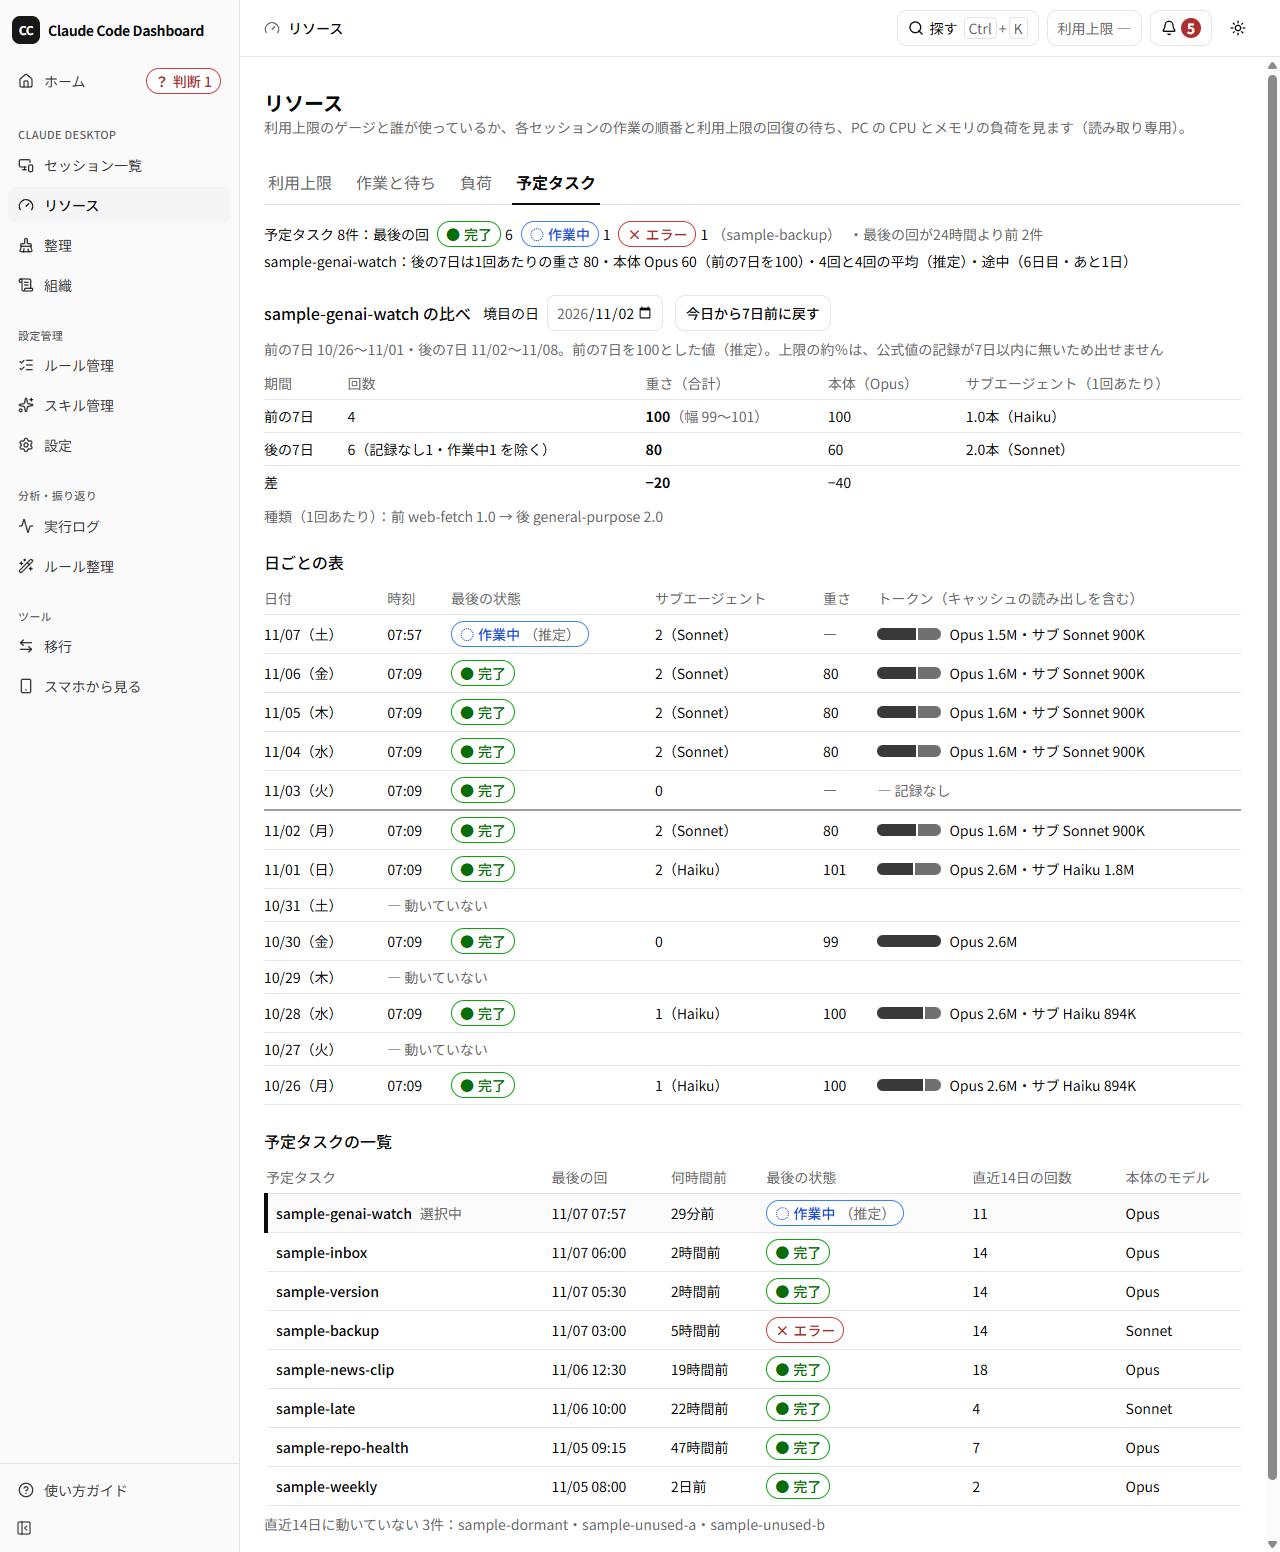
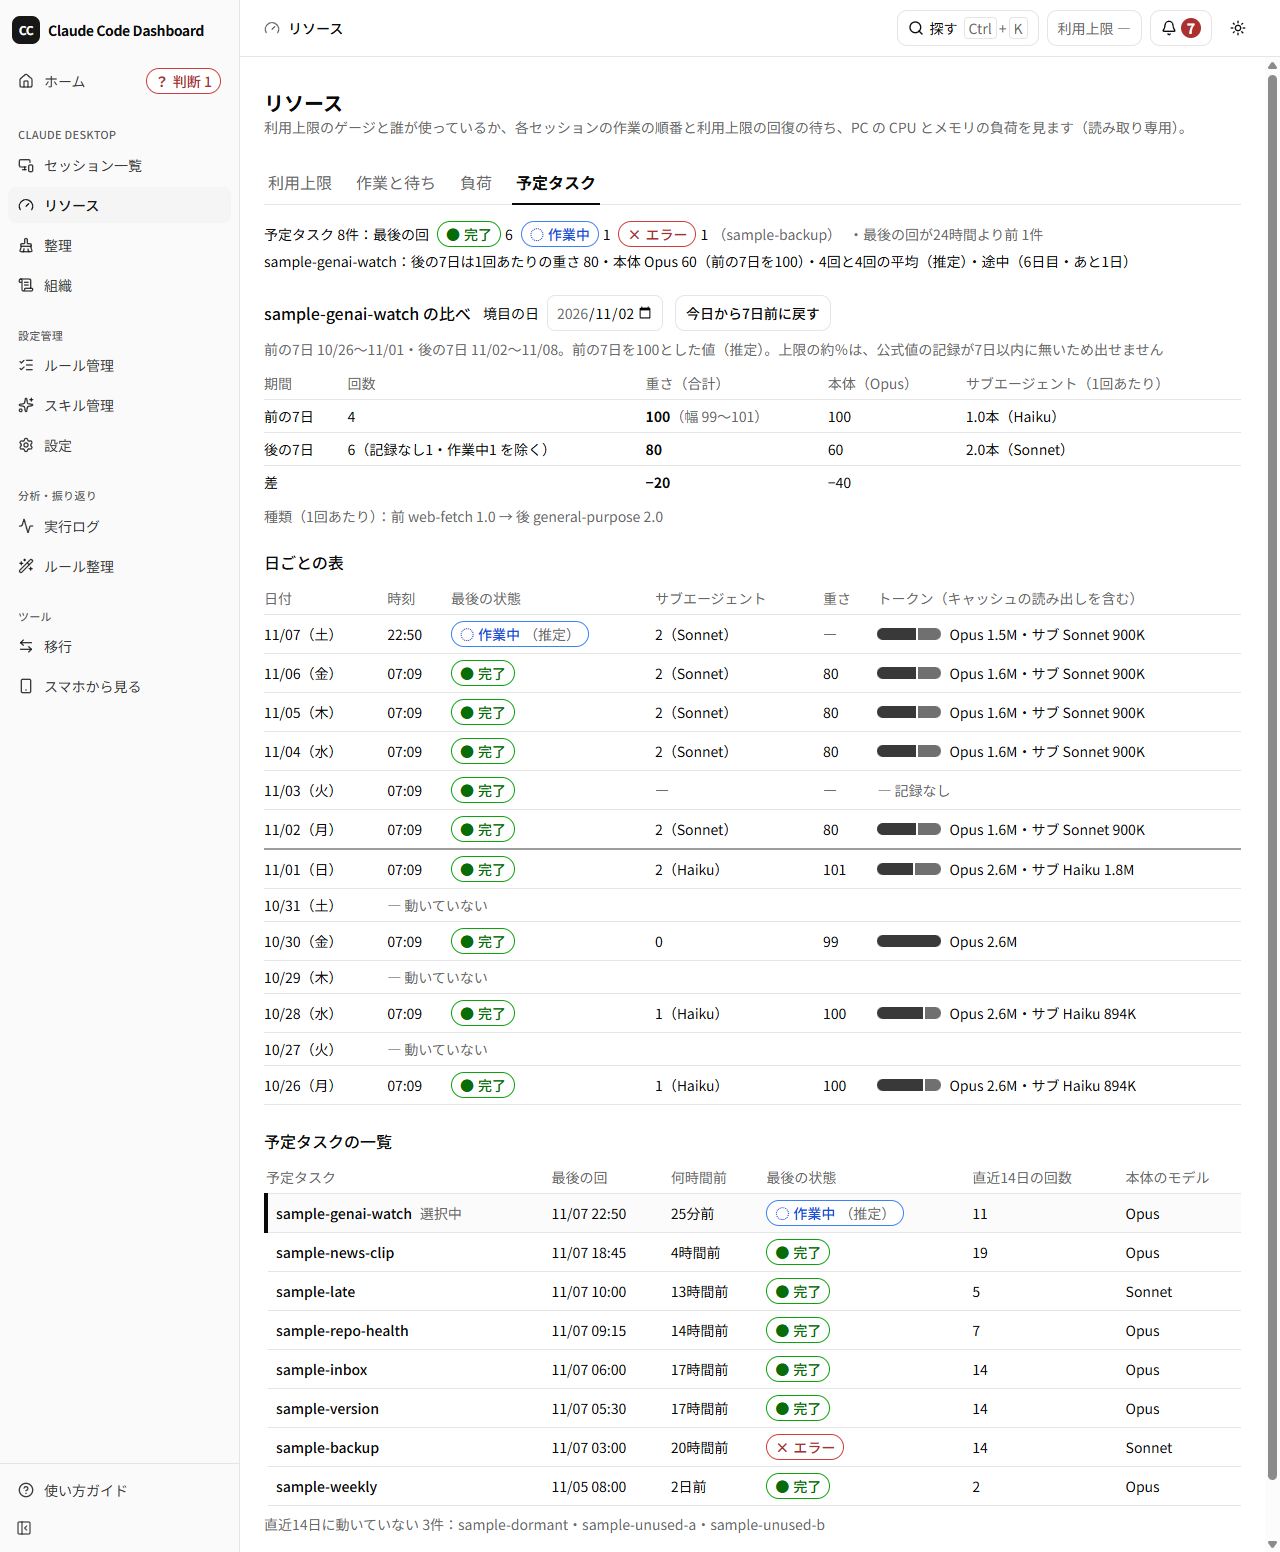
fix(指示64): ⑯ ゲート2 の直し(境目の線・LAN の内訳・既定の選択の端・記録なしの「―」・9つの状態のテスト)
- 中1：日ごとの表の境目の線を「境目の日と前の日の間」(前の7日の最初の行の上)に引く。
  境目が今日でも区切りが残る(boundaryLineDay)。使い方ガイドの文と画像 09d を直した
- 低7：LAN の要求の /api/usage から、セッションごとの models・subagents を外す(usageLan.ts)
- 低2：既定の選択で、作業中の回を過半数の数えから外す。新しい系統が最後の終わった回にだけ
  出たときは36時間まで、次の回が作業中なら48時間まで新しい系統と数える
- 低1：会話記録の無い回のサブエージェントの欄を「―」にする
- 低3：9つの状態 × アーカイブの有無で、タブの印が一覧の印と同じことのテスト

要件: AG-2(中1・低1)・AG-7(低7)・AG-3(低2)・AG-1(低3)

diff --git a/src/lib/scheduledActivity.ts b/src/lib/scheduledActivity.ts
@@ -91,10 +91,16 @@ function byTask(runs: ScheduledRun[]): Map<string, ScheduledRun[]> {
  * - 系統で比べる(版の違いは同じ系統)。本体とサブエージェントのどちらに出ても同じに数える
  * - それより前の読める回のどれにも無かった系統だけ。前の回が読めない回(初回・読める範囲の最初の回)は数えない
  * - その系統が、最初に出た回から後の回の過半数で使われていること(時々だけ使う物は拾わない)。
- *   最初に出た回が最後の回(後の回がその1回だけ)のときは、その回が24時間以内のときだけ数える(1回だけでは使い続けたか分からないため。
+ *   作業中の回(まだその系統を使っていないことがある)は数えない(最初に出た回そのものは数える)。
+ *   最初に出た回が最後の終わった回のときは、その回が36時間以内のとき(毎日の回が半日遅れても外れない)と、
+ *   次の回が作業中で48時間以内のとき(次の回が終わるまで)だけ数える(1回だけでは使い続けたか分からないため。
  *   画面は、初めて出した既定の選択を覚えるので、次の日に替わることはない)
  * 該当が無ければ、直近14日の重さの合計が大きい順の1件目(境目は今日の7日前＝null)
  */
+/** 新しい系統が最後の終わった回にだけ出たとき、新しい系統と数える長さ(低2)。次の回が作業中なら、48時間まで待つ */
+const SINGLE_RUN_FRESH_MS = 36 * 3_600_000
+const SINGLE_RUN_WAIT_NEXT_MS = 2 * DAY_MS
+
 export function chooseDefault(runs: ScheduledRun[], now: number): DefaultSelection | null {
   const since = now - RECENT_DAYS * DAY_MS
   let best: { taskId: string; at: number } | null = null
@@ -106,9 +112,12 @@ export function chooseDefault(runs: ScheduledRun[], now: number): DefaultSelecti
       if (i > 0) {
         for (const f of fams) {
           if (seen.has(f)) continue
-          const later = readable.slice(i)
+          const after = readable.slice(i + 1)
+          const later = [run, ...after.filter((r) => !r.running)]
           const used = later.filter((r) => familiesOf(r).has(f)).length
-          const fresh = later.length > 1 || now - run.startedAt <= DAY_MS
+          const age = now - run.startedAt
+          const nextRunning = after.some((r) => r.running)
+          const fresh = later.length > 1 || age <= SINGLE_RUN_FRESH_MS || (nextRunning && age <= SINGLE_RUN_WAIT_NEXT_MS)
           if (used * 2 > later.length && fresh && run.startedAt >= since && run.startedAt <= now) {
             if (!best || run.startedAt > best.at) best = { taskId, at: run.startedAt }
           }
@@ -362,6 +371,14 @@ export function dailyRows(runs: ScheduledRun[], boundary: string, now: number): 
     rows.push({ day: k, runs: [...(byDay.get(k) ?? [])].sort((a, b) => b.startedAt - a.startedAt) })
   }
   return rows
+}
+
+/**
+ * 境目の線を上に引く行の日(前の7日の最初の行 = 境目の前の日。新しい順の表なので、線は境目の日と前の日の間に入る)。
+ * 境目が今日でも、線は今日の行と昨日の行の間に残る。境目が今日より後なら表の先頭の行(後の7日の行が無いため)
+ */
+export function boundaryLineDay(rows: DayRow[], boundary: string): string | null {
+  return rows.find((r) => r.day < boundary)?.day ?? null
 }
 
 /** 予定タスクのいつもの本体のモデルの系統(回の多い順の1位)。替わった回だけ印を付けるために使う */

diff --git a/src/lib/scheduledActivity.test.ts b/src/lib/scheduledActivity.test.ts
@@ -7,6 +7,7 @@ import {
   buildTaskList,
   chooseDefault,
   compareRuns,
+  boundaryLineDay,
   dailyRows,
   dayKey,
   familyLabel,
@@ -159,6 +160,20 @@ describe("[AG-2][A2] 日ごとの表", () => {
     expect(rows.find((r) => r.day === "2026-11-09")?.runs).toEqual([])
   })
 
+  it("[中1] 境目の線は境目の日と前の日の間。境目の日は線の上(後の7日の側)。境目が今日でも区切りが残る", () => {
+    const runs = [run("w", "2026-11-07 07:09"), run("w", "2026-11-06 07:09")]
+    const rows = dailyRows(runs, "2026-11-07", jst("2026-11-10 12:00"))
+    const line = boundaryLineDay(rows, "2026-11-07")
+    expect(line).toBe("2026-11-06")
+    const at = rows.findIndex((r) => r.day === line)
+    expect(rows.slice(0, at).map((r) => r.day)).toContain("2026-11-07")
+    expect(rows.slice(at).every((r) => r.day < "2026-11-07")).toBe(true)
+    // 境目が今日：線は今日の行の下(表の先頭ではない)
+    const today = dailyRows(runs, "2026-11-10", jst("2026-11-10 12:00"))
+    expect(boundaryLineDay(today, "2026-11-10")).toBe("2026-11-09")
+    expect(today[0].day).toBe("2026-11-10")
+  })
+
   it("いつもの本体の系統(替わった回だけ印を付けるため)", () => {
     expect(usualMainFamily([run("w", "2026-11-01 07:00"), run("w", "2026-11-02 07:00"), run("w", "2026-11-03 07:00", { mainFamilies: ["Sonnet"] })])).toBe("Opus")
   })
@@ -269,6 +284,25 @@ describe("[A13] 新しい系統が最後の回に初めて出たとき", () => {
     ]
     expect(chooseDefault(runs, jst("2026-11-08 20:00"))).toMatchObject({ taskId: "sometimes", boundaryDay: "2026-11-08" })
     expect(chooseDefault(runs, jst("2026-11-10 12:00"))).toMatchObject({ reason: "weight" })
+  })
+
+  it("[低2] 次の回が作業中でまだ新しい系統を使っていない間(48時間まで)・次の回が無いまま24時間を過ぎても(36時間まで)選び続ける", () => {
+    const base = [
+      ...["11-03", "11-04", "11-05", "11-06"].map((d) => run("watch", `2026-${d} 07:09`)),
+      run("watch", "2026-11-07 07:09", { sub: ["Sonnet"] }),
+      ...["11-03", "11-05", "11-07"].map((d) => run("other", `2026-${d} 10:00`, { cost: 5 })),
+    ]
+    const want = { taskId: "watch", reason: "new-family", boundaryDay: "2026-11-07" }
+    // 11/08 の回が作業中で、本体の行だけ(Sonnet はまだ無い)
+    const running = [...base, run("watch", "2026-11-08 07:09", { running: true })]
+    expect(chooseDefault(running, jst("2026-11-08 07:20"))).toEqual(want)
+    expect(chooseDefault(running, jst("2026-11-09 07:00"))).toEqual(want)
+    // 11/08 の回が無いまま(PC が止まっていた・遅れた)
+    expect(chooseDefault(base, jst("2026-11-08 09:00"))).toEqual(want)
+    // 次の回が無いまま36時間を過ぎたら、1回だけでは使い続けたか分からないので選ばない
+    expect(chooseDefault(base, jst("2026-11-08 20:00"))).toMatchObject({ reason: "weight" })
+    // 作業中の回の後でも、48時間を過ぎたら選ばない
+    expect(chooseDefault(running, jst("2026-11-09 08:00"))).toMatchObject({ reason: "weight" })
   })
 
   it("前の7日の本体の重さが0なら、本体は比べない(―)", () => {

diff --git a/src/lib/scheduledActivityService.test.ts b/src/lib/scheduledActivityService.test.ts
@@ -7,7 +7,7 @@ import { afterEach, describe, expect, it, vi } from "vitest"
 import { FAKE_ACCOUNT, FAKE_ORG, SENTINEL, fakeCliId, fakeSessionId, fakeUuid, makeMeta, makeSessionSummary } from "./desktopFixtures"
 import { DesktopSessionService } from "./desktopSessionService"
 import { projectMeta } from "./desktopSessions"
-import type { DesktopSessionMessaging } from "./desktopSessionTypes"
+import type { DesktopSessionMessaging, DesktopSessionStatus } from "./desktopSessionTypes"
 import { readJsonlFrom } from "./jsonlReader"
 import { LAN_HEADER } from "./lanAccess/config"
 import { compareRuns, dayKey } from "./scheduledActivity"
@@ -189,6 +189,23 @@ describe("[AG-1][AG-5][AG-6] 予定タスクの集計", () => {
     expect(beta?.mark).toMatchObject({ symbol: "？", text: "判断", tone: "gray" })
     expect(beta?.stopReason).toBe("要対応")
     expect(res.runs.find((r) => r.desktopId === fakeSessionId(1))?.stopReason).toBeNull()
+  })
+
+  it("[A1][低3] 9つの状態 × アーカイブの有無で、タブの印が一覧の印(buildMarks)と同じ", async () => {
+    const fx = await fixture()
+    const statuses: DesktopSessionStatus[] = ["running", "interrupted", "blocked", "review_ready", "completed", "standby", "waiting", "unknown", "error"]
+    const sessions = statuses.flatMap((status, i) =>
+      [false, true].map((isArchived) =>
+        makeSessionSummary(fakeSessionId(100 + i * 2 + Number(isArchived)), { status, isArchived, createdAt: NOW - (i + 1) * HOUR, lastActivityAt: NOW - i * HOUR })
+      )
+    )
+    const runs = sessions.map((summary) => ({ summary, taskId: "alpha", cliSessionIds: [] }))
+    const service = new ScheduledActivityService({ projectsRoot: fx.projectsRoot, prices: new PriceBook(), runs: async () => ({ sessions, runs }), now: () => NOW })
+    const res = await service.get()
+    const marks = buildMarks(sessions, NOW)
+    expect(res.runs).toHaveLength(18)
+    for (const r of res.runs) expect(r.mark, r.desktopId).toEqual(marks.get(r.desktopId))
+    expect(new Set(res.runs.map((r) => `${r.mark.symbol}${r.mark.text}`)).size).toBe(9)
   })
 
   it("[A2][A5] モデル別のトークンは本体とサブエージェントを分けて、会話記録の合計と一致する。種類は agentType、無ければ「種類不明」", async () => {

diff --git a/src/lib/usageLan.test.ts b/src/lib/usageLan.test.ts
@@ -1,0 +1,48 @@
+import { describe, expect, it, vi } from "vitest"
+import { LAN_HEADER } from "./lanAccess/config"
+import type { UsageContribution, UsageResponse } from "./usageTypes"
+
+const item = (key: string): UsageContribution => ({
+  sessionKey: key,
+  desktopId: null,
+  title: "合成のセッション",
+  groupId: null,
+  groupName: null,
+  costUsd: 1,
+  tokens: { input: 1, output: 1, cacheRead: 1, cacheWrite: 1 },
+  models: [{ family: "Opus", subagent: false, tokens: 4, costUsd: 1 }],
+  subagents: 2,
+})
+
+const sample = {
+  generatedAt: 0,
+  contributions: { fiveHour: { since: 0, items: [item("a")] }, week: { since: 0, items: [item("a"), item("b")] } },
+} as unknown as UsageResponse
+
+vi.mock("@/lib/usageService", () => ({
+  getUsageService: async () => ({ get: async () => sample, getOfficial: async () => sample }),
+}))
+
+describe("[AG-7][低7] LAN の /api/usage にはセッションごとの内訳を出さない", () => {
+  async function read(viaLan: boolean): Promise<UsageResponse> {
+    const { GET } = await import("@/app/api/usage/route")
+    const headers: Record<string, string> = viaLan ? { [LAN_HEADER]: "1" } : {}
+    const res = await GET(new Request("http://127.0.0.1/api/usage", { headers }))
+    expect(res.status).toBe(200)
+    return (await res.json()) as UsageResponse
+  }
+
+  it("LAN の印つきでは models・subagents が無く、PC では残る", async () => {
+    const lan = await read(true)
+    const items = [...lan.contributions.fiveHour.items, ...lan.contributions.week.items]
+    expect(items).toHaveLength(3)
+    for (const i of items) {
+      expect(i).not.toHaveProperty("models")
+      expect(i).not.toHaveProperty("subagents")
+      expect(i.costUsd).toBe(1)
+    }
+    const pc = await read(false)
+    expect(pc.contributions.week.items[0].models).toHaveLength(1)
+    expect(pc.contributions.week.items[0].subagents).toBe(2)
+  })
+})

diff --git a/src/components/resources/ScheduledView.tsx b/src/components/resources/ScheduledView.tsx
@@ -12,6 +12,7 @@ import {
   SCHEDULED_TASK_LABEL,
   buildTaskList,
   compareRuns,
+  boundaryLineDay,
   dailyRows,
   dayKey,
   indexOf,
@@ -335,6 +336,8 @@ function DailySection({
   onOpen: (desktopId: string) => void
 }) {
   const rows = dailyRows(runs, comparison.boundary, now)
+  // 線は境目の日と前の日の間(前の7日の最初の行の上)。境目の日の回が後の7日の側に並ぶ
+  const lineDay = boundaryLineDay(rows, comparison.boundary)
   const open = (e: KeyboardEvent, id: string) => {
     if (e.key === "Enter" || e.key === " ") {
       e.preventDefault()
@@ -361,7 +364,7 @@ function DailySection({
           {rows.flatMap((row) =>
             row.runs.length === 0
               ? [
-                  <tr key={row.day} className={cn("border-b", row.day === comparison.boundary && "border-t-2 border-t-foreground/40")} data-testid="scheduled-day-idle">
+                  <tr key={row.day} className={cn("border-b", row.day === lineDay && "border-t-2 border-t-foreground/40")} data-testid="scheduled-day-idle">
                     <td className="py-1.5 pr-3 whitespace-nowrap">{dayText(row.day)}</td>
                     <td colSpan={5} className="py-1.5 text-muted-foreground">
                       ― 動いていない
@@ -377,7 +380,7 @@ function DailySection({
                       tabIndex={0}
                       className={cn(
                         "cursor-pointer border-b outline-none hover:bg-muted/50 focus-visible:ring-2 focus-visible:ring-ring",
-                        row.day === comparison.boundary && i === 0 && "border-t-2 border-t-foreground/40"
+                        row.day === lineDay && i === 0 && "border-t-2 border-t-foreground/40"
                       )}
                       onClick={() => onOpen(run.desktopId)}
                       onKeyDown={(e) => open(e, run.desktopId)}

diff --git a/src/app/api/usage/route.ts b/src/app/api/usage/route.ts
@@ -1,6 +1,7 @@
 import { NextResponse } from "next/server"
 import { getUsageService } from "@/lib/usageService"
-import { lanAwareJson } from "@/lib/lanAccess/apiGuard"
+import { lanAwareJson, viaLan } from "@/lib/lanAccess/apiGuard"
+import { usageForLan } from "@/lib/usageLan"
 
 export const dynamic = "force-dynamic"
 
@@ -8,12 +9,14 @@ export const dynamic = "force-dynamic"
  * 利用上限の可視化: 公式値(記録の読み取りのみ)と、会話記録から推定した値・ペース・セッション別の消費を返す。
  * 返す項目は UsageResponse の許可リストだけで、公式値の記録の recordedBy(記録したセッション名)は含まれない。
  * `?phase=official` は、公式値の記録だけを読んだ軽い答え(推定はまだ空。ホームが先に出すため。⑫ ST-7)
+ * LAN(スマホ)の要求には、セッションごとの内訳(models・subagents)を付けない(⑯ AG-7)
  */
 export async function GET(req: Request) {
   try {
     const service = await getUsageService()
     const official = new URL(req.url).searchParams.get("phase") === "official"
-    return lanAwareJson(req, official ? await service.getOfficial() : await service.get())
+    const res = official ? await service.getOfficial() : await service.get()
+    return lanAwareJson(req, viaLan(req) ? usageForLan(res) : res)
   } catch {
     // 内部のエラー文には会話ログのパス等が含まれうるため、固定の文言だけを返す
     return NextResponse.json({ error: "利用上限の集計に失敗しました" }, { status: 500 })

diff --git a/src/lib/usageLan.ts b/src/lib/usageLan.ts
@@ -1,0 +1,18 @@
+import type { UsageContributionSet, UsageResponse } from "./usageTypes"
+
+/**
+ * LAN(スマホ)へ返す利用上限の応答から、⑯ で足したセッションごとの内訳(`models`・`subagents`)を外す。
+ * ⑯ AG-7「LAN には出さない(PC だけ)」。スマホの画面は使っていないので、表示は変わらない
+ */
+export function usageForLan(res: UsageResponse): UsageResponse {
+  const strip = (set: UsageContributionSet): UsageContributionSet => ({
+    ...set,
+    items: set.items.map((item) => {
+      const rest = { ...item }
+      delete rest.models
+      delete rest.subagents
+      return rest
+    }),
+  })
+  return { ...res, contributions: { fiveHour: strip(res.contributions.fiveHour), week: strip(res.contributions.week) } }
+}

diff --git a/src/lib/scheduledActivityText.ts b/src/lib/scheduledActivityText.ts
@@ -79,6 +79,8 @@ export function breakdownText(models: { family: string; subagent: boolean; token
 
 /** 日ごとの表のサブエージェントの欄「2（Sonnet）」 */
 export function runSubagentText(run: ScheduledRun): string {
+  // 会話記録の無い回は、重さ・トークンと同じく「分からない」(「0」だと使わなかったと読める)
+  if (!run.hasUsage) return "―"
   if (run.subagentCount === 0) return "0"
   return run.subagentFamilies.length > 0 ? `${run.subagentCount}（${run.subagentFamilies.join("・")}）` : String(run.subagentCount)
 }

diff --git a/src/lib/scheduledActivityText.test.ts b/src/lib/scheduledActivityText.test.ts
@@ -82,6 +82,10 @@ describe("[A15] 言葉と書き方", () => {
     expect(runSubagentText(run("2026-11-05 07:09"))).toBe("0")
   })
 
+  it("[低1] 会話記録の無い回のサブエージェントの欄は「―」(分からない。「0」だと使わなかったと読める)", () => {
+    expect(runSubagentText(run("2026-11-05 07:09", { hasUsage: false }))).toBe("―")
+  })
+
   it("日付・何時間前・符号", () => {
     expect(dayText("2026-11-07")).toBe("11/07（土）")
     expect(agoText(now - 3 * 3600_000, now)).toBe("3時間前")
